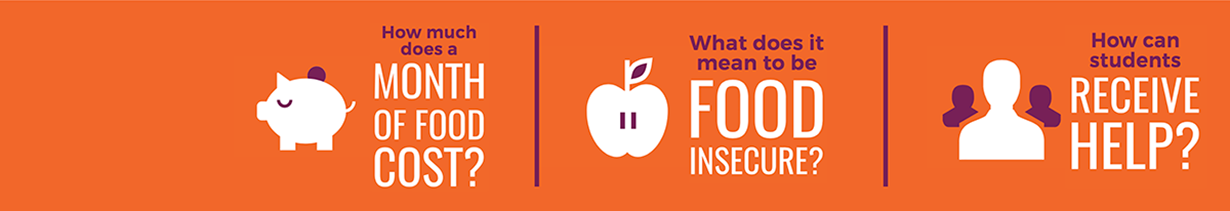
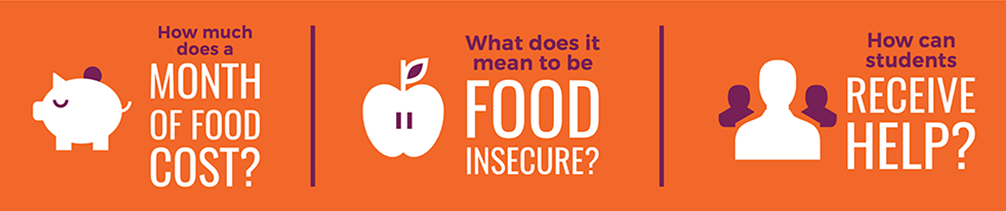
change header layout

Changed region(s): [[0.0308, 0.1137, 0.6779, 0.91], [0.7087, 0.1137, 0.9861, 0.8815]]

diff --git a/issue01V2/issue01.html b/issue01V2/issue01.html
@@ -62,29 +62,36 @@
       </div>
     </div>
 
-    <div class="row patternArea">
-      <div class="issueName">
-               <h2 class="issueName-headline">FOOD INSECURITY 
-                <br/>
-                & HUNGER</h2>
-              <h4 class="issueName-volume">October 2017 | Volume 1 Issue 1</h4>
+    <div class="headerArea">
+      <div class="row patternArea">
+        <div class="issueName">
+                 <h2 class="issueName-headline">FOOD INSECURITY 
+                  <br/>
+                  & HUNGER</h2>
+                <h4 class="issueName-volume">October 2017 | Volume 1 Issue 1</h4>
+        </div>
+      </div>
+
+      <div class="row briefTeaserArea">
+        <div class="row briefArea">
+          <div class="briefMenu">
+            <div class="menuOverview hvr-underline-from-center">OVERVIEW</div>
+            <br/>
+            <div class="menuFeature hvr-underline-from-center">MONTHLY 
+              <br/>
+              BUDGET</div>
+            <br/>
+            <div class="menuResource hvr-underline-from-center">RESOURCES</div>
+          </div>
+        </div>
+
+        <div class="row teaserArea">
+          <img src="img/topBrief.png" />
+        </div>
+
       </div>
     </div>
-
-    <div class="row briefArea">
-      <div class="briefMenu">
-        <div class="menuOverview hvr-underline-from-center">OVERVIEW</div>
-        <br/>
-        <div class="menuFeature hvr-underline-from-center">MONTHLY 
-          <br/>
-          BUDGET</div>
-        <br/>
-        <div class="menuResource hvr-underline-from-center">NOVA 
-          <br/>
-          RESOURCES</div>
-      </div>
-    </div>
-
+    
     <!-- Header section ends here -->
 
     <!-- Content section starts here -->

diff --git a/issue01V2/css/issue01.css b/issue01V2/css/issue01.css
@@ -67,9 +67,16 @@ p {
 
 
 /* Pattern & Headline area */
+.headerArea{
+    position: relative;
+    margin-bottom: 680px;
+}
+
+
 .patternArea {
     margin-top: 30px;
     margin-left: 1px;
+    position: absolute;
 }
 
 .issueName {
@@ -100,56 +107,62 @@ p {
 }
 
 /* Brief Area */
+
+.briefTeaserArea{
+    margin-left: 5%;
+    position: absolute;
+    top: 420px;
+    z-index: 10;
+}
+
 .briefArea {
-    margin-top: 20px;
+    width: 200px;
     margin-left: 1px;
+    background: #762056;
 }
 
 .briefMenu {
     font-family: "Rubik", sans-serif;
-    background-image: url("img/topBrief.png");
-    width: 1230px;
-    height: 200px;
+    font-size: 30px;
+    width: 100%;
+    margin-bottom: 20px;
+    text-align: center;
+    color: #fff;
     cursor: pointer;
 }
 
 .menuOverview {
     margin-left: 2%;
-    font-size: 20px;
+    font-size: 23px;
     font-weight: bold;
     margin-top: 25px;
     margin-bottom: 0px;
     line-height: 20px;
 }
-
-.menuOverview:hover{
-    color: #762056;
-}
-
-.menuFeature:hover{
-    color: #762056;
-}
-
-.menuResource:hover{
-    color: #762056;
-}
-
 
 .menuFeature {
     margin-left: 2%;
-    font-size: 20px;
+    font-size: 23px;
     font-weight: bold;
     margin-top: 25px;
     margin-bottom: 0px;
-    line-height: 20px;
+    line-height: 25px;
 }
 
 .menuResource {
     margin-left: 2%;
-    font-size: 20px;
+    font-size: 23px;
     font-weight: bold;
     margin-top: 25px;
-    line-height: 20px;
+    line-height: 25px;
+}
+
+.teaserArea{
+    margin-left: 25px;
+}
+
+.teaserArea img {
+    width: 900px;
 }
 
 /* All same style */
